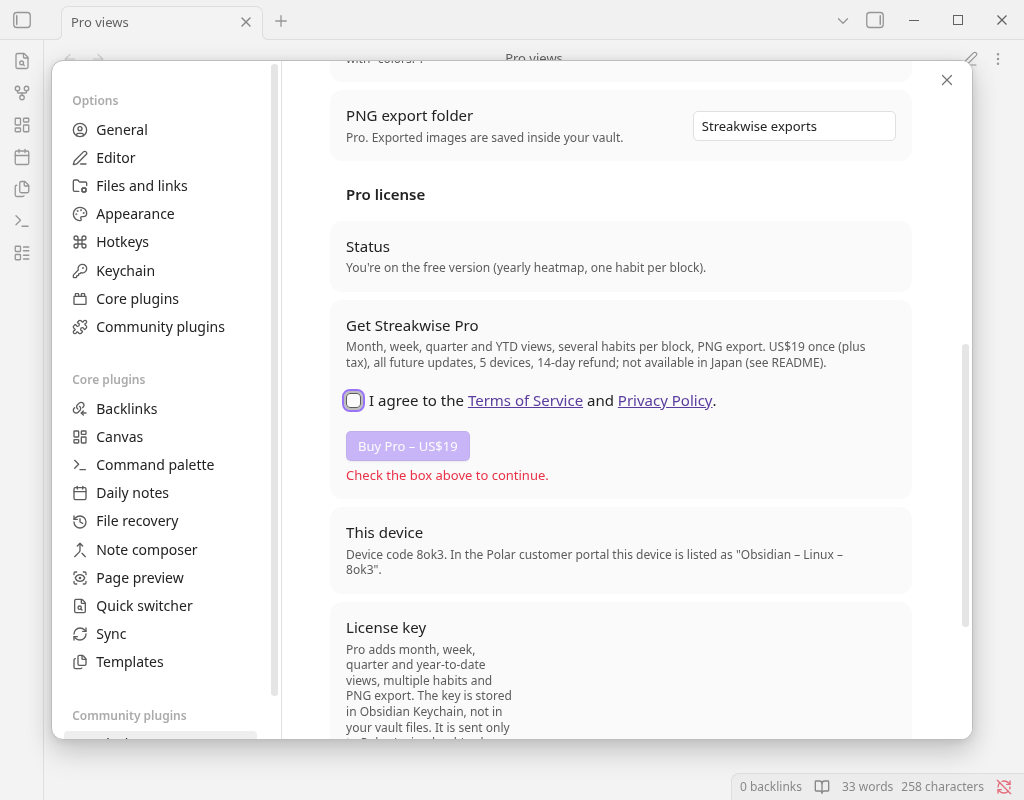
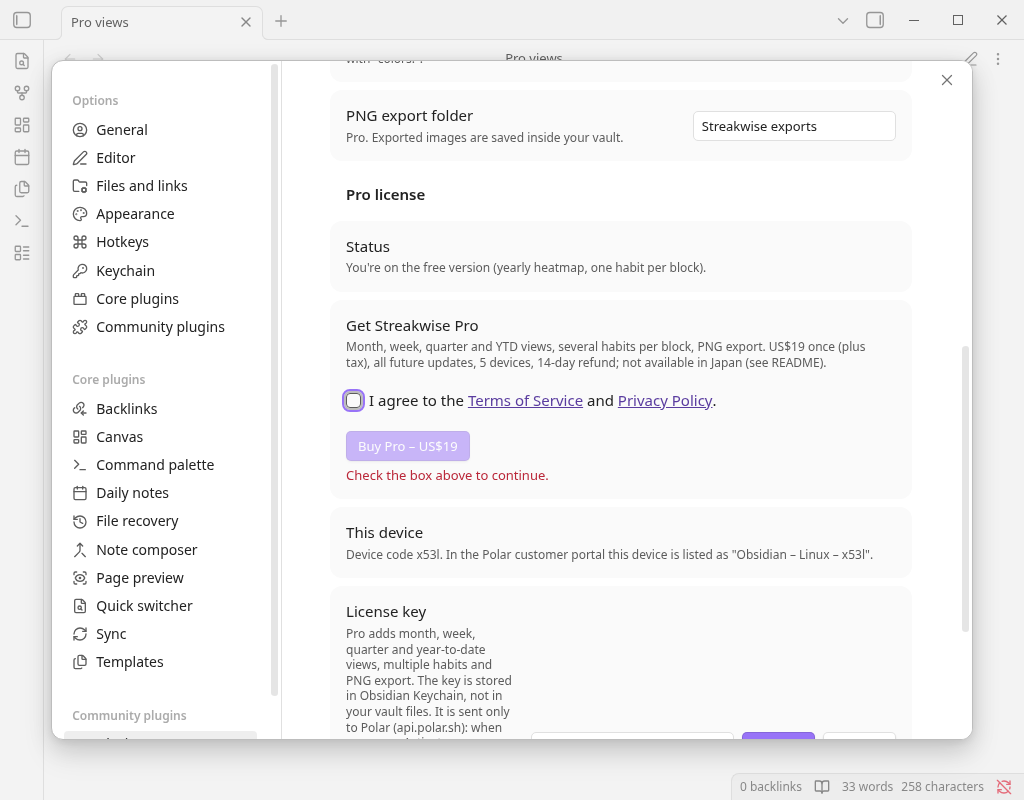
Consent UIUX r3: error hint >=4.5:1 in light (80% + black, 5.85:1) and dark (85% + white, 5.23:1); reshoot 43 blocked and 44 narrow at true 320px setting width (light/dark)

diff --git a/styles.css b/styles.css
@@ -120,5 +120,9 @@
 .sw-buy-button[aria-disabled="true"] { opacity: 0.5; cursor: not-allowed; }
 .sw-consent-hint { margin-top: 6px; color: var(--text-muted); font-size: var(--font-ui-small); }
 .sw-consent-hint.sw-consent-hint-error { color: var(--text-error); }
+/* Light theme: --text-error measures below 4.5:1 on the settings background; darken it. */
+.theme-light .sw-consent-hint.sw-consent-hint-error { color: color-mix(in srgb, var(--text-error) 80%, black); }
+/* Dark theme: --text-error measures 4.496:1 on #242424; lighten slightly. */
+.theme-dark .sw-consent-hint.sw-consent-hint-error { color: color-mix(in srgb, var(--text-error) 85%, white); }
 .sw-sr-only { position: absolute; width: 1px; height: 1px; padding: 0; margin: -1px; overflow: hidden; clip: rect(0, 0, 0, 0); white-space: nowrap; border: 0; }
 .sw-consent input[type="checkbox"]:focus-visible { outline: 2px solid var(--interactive-accent); outline-offset: 2px; }

diff --git a/tests/consent.test.ts b/tests/consent.test.ts
@@ -102,4 +102,6 @@ test('styles: label row does not wrap the checkbox away; light-theme link uses t
 	assert.match(row, /align-items: flex-start/);
 	assert.match(css, /\.theme-light \.sw-consent-link \{ color: color-mix\(in srgb, var\(--text-accent\) 65%, black\); \}/);
 	assert.match(css, /\.sw-consent-hint\.sw-consent-hint-error \{ color: var\(--text-error\); \}/);
+	assert.match(css, /\.theme-light \.sw-consent-hint\.sw-consent-hint-error \{ color: color-mix\(in srgb, var\(--text-error\) 80%, black\); \}/);
+	assert.match(css, /\.theme-dark \.sw-consent-hint\.sw-consent-hint-error \{ color: color-mix\(in srgb, var\(--text-error\) 85%, white\); \}/);
 });
